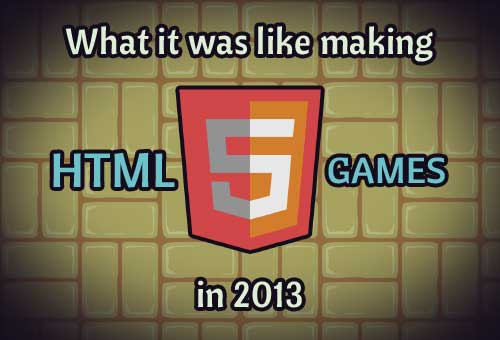
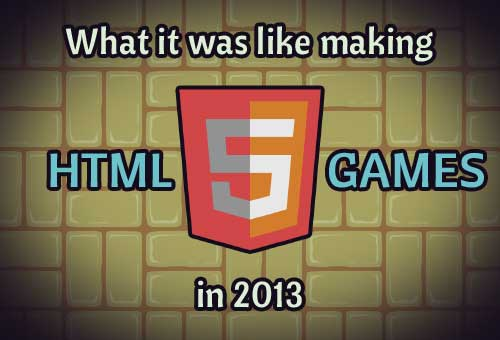
tweak 2013html5 post, update header

Changed region(s): [[0.0, 0.0, 0.99, 1.0], [0.57, 0.0294, 0.69, 0.1176], [0.24, 0.0588, 0.3, 0.0882]]

diff --git a/_posts/2013-12-20-what-2013-was-like-html5.md b/_posts/2013-12-20-what-2013-was-like-html5.md
@@ -45,7 +45,7 @@ We’ve been iterating on our own internal tools for about three years now, incl
 
 Regarding engines, [ImpactJS][4] was the leader of the pack, despite the $99 USD price tag. [Phaser][5] has been picking up steam as an open source alternative, and there are many other solid choices. The tooling has a long way to go, but things are looking bright for the future, with offerings like Intel’s [XDK][6] and PlayCanvas’s [cloud-based IDE][7] pushing forward every day.
 
-# Where was the money?
+# How did we make money?
 
 As with any technology, there are many different approaches to monetizing an application. HTML5 doesn’t really have any limitations here, as it’s perfectly capable of supporting premium downloads, F2P with IAP, subscription models, or probably any other crazy scheme. That said, monetizing consumer products is hard, and this year it was easier for HTML5 games to make money through B2B deals.
 
@@ -63,7 +63,7 @@ There's lots of interest in HTML5 from companies with money, and from what we've
 
 ## Licenses
 
-HTML5 gaming portals are popping up everywhere. They typically pay a one-time non-exclusive licensing fee for a quality mobile HTML5 game, ranging drastically in price. From what we’ve seen, an individual license could earn between $350 and $5000 USD, depending on the quality of the game and success of the partner. These numbers will likely decrease as more developers saturate the market. Many portals offer revenue split only, from which we’ve never seen better pay than the one-time fee.
+HTML5 gaming portals are popping up everywhere. They typically pay a one-time non-exclusive licensing fee for a quality mobile HTML5 game, ranging drastically in price. From what we’ve seen, an individual license could earn between $350-$2k USD, depending on the quality of the game and success of the partner. These numbers will likely decrease as more developers saturate the market. Many portals offer revenue split only, from which we’ve never seen better pay than the one-time fee.
 
 These licenses seem like easy money on the surface, and once in a blue moon they are. The vast majority of licenses, however, end up being bloody time vampires. Portals usually want support for a dozen or more devices, going back as far as Android 2.1 and iOS 3. Since many of these portals are brand new, they tend to be very volatile. We’ve experienced companies switching contacts multiple times, pivoting away from HTML5, and even shutting down entirely during discussions.
 
@@ -81,18 +81,18 @@ Developing and marketing HTML5 games directly to consumers? Good luck! You’re 
 
 # What games did we make?
 
+One way to measure the effectiveness of a platform is to look at how productive its developers have been. So what was our output from 2013? Here is an incomplete list of the games we made:
+
 <div class="full-frame">
 	<img alt="LDG games in 2013" src="/media/images/posts/2013/games.jpg" width="500" height="611">
 </div>
-
-One way to measure the effectiveness of a platform is to look at how productive its developers have been. So what was our output from 2013? Here is an incomplete list of the games we made:
 
 1. **Lava Blade** (turn-based strategy RPG, launched via our own [Humble widget][11])
 1. **Rampart Rush** (unreleased, got tied up in publishing deals)
 1. **Retreat to the Jeep!** ([Indie Speed Run 2013 entry][12])
 1. **Midtown Mayhem** (unreleased, also tied up in publishing deals)
 
-These games were developed while handling dozens of licenses and creating many [prototypes][13] to sharpen our skills and tools. Additionally, throughout almost the entire year we were developing [A Wizard’s Lizard][10] in one form or another.
+These games were developed while handling dozens of licenses and creating many [prototypes][13] to sharpen our skills and tools. Additionally, throughout almost the entire year we were developing [A Wizard’s Lizard][10] in one form or another. Any studio can always be more productive, but we're satisfied with what we were able to build on HTML5 this year.
 
 # Summary
 
